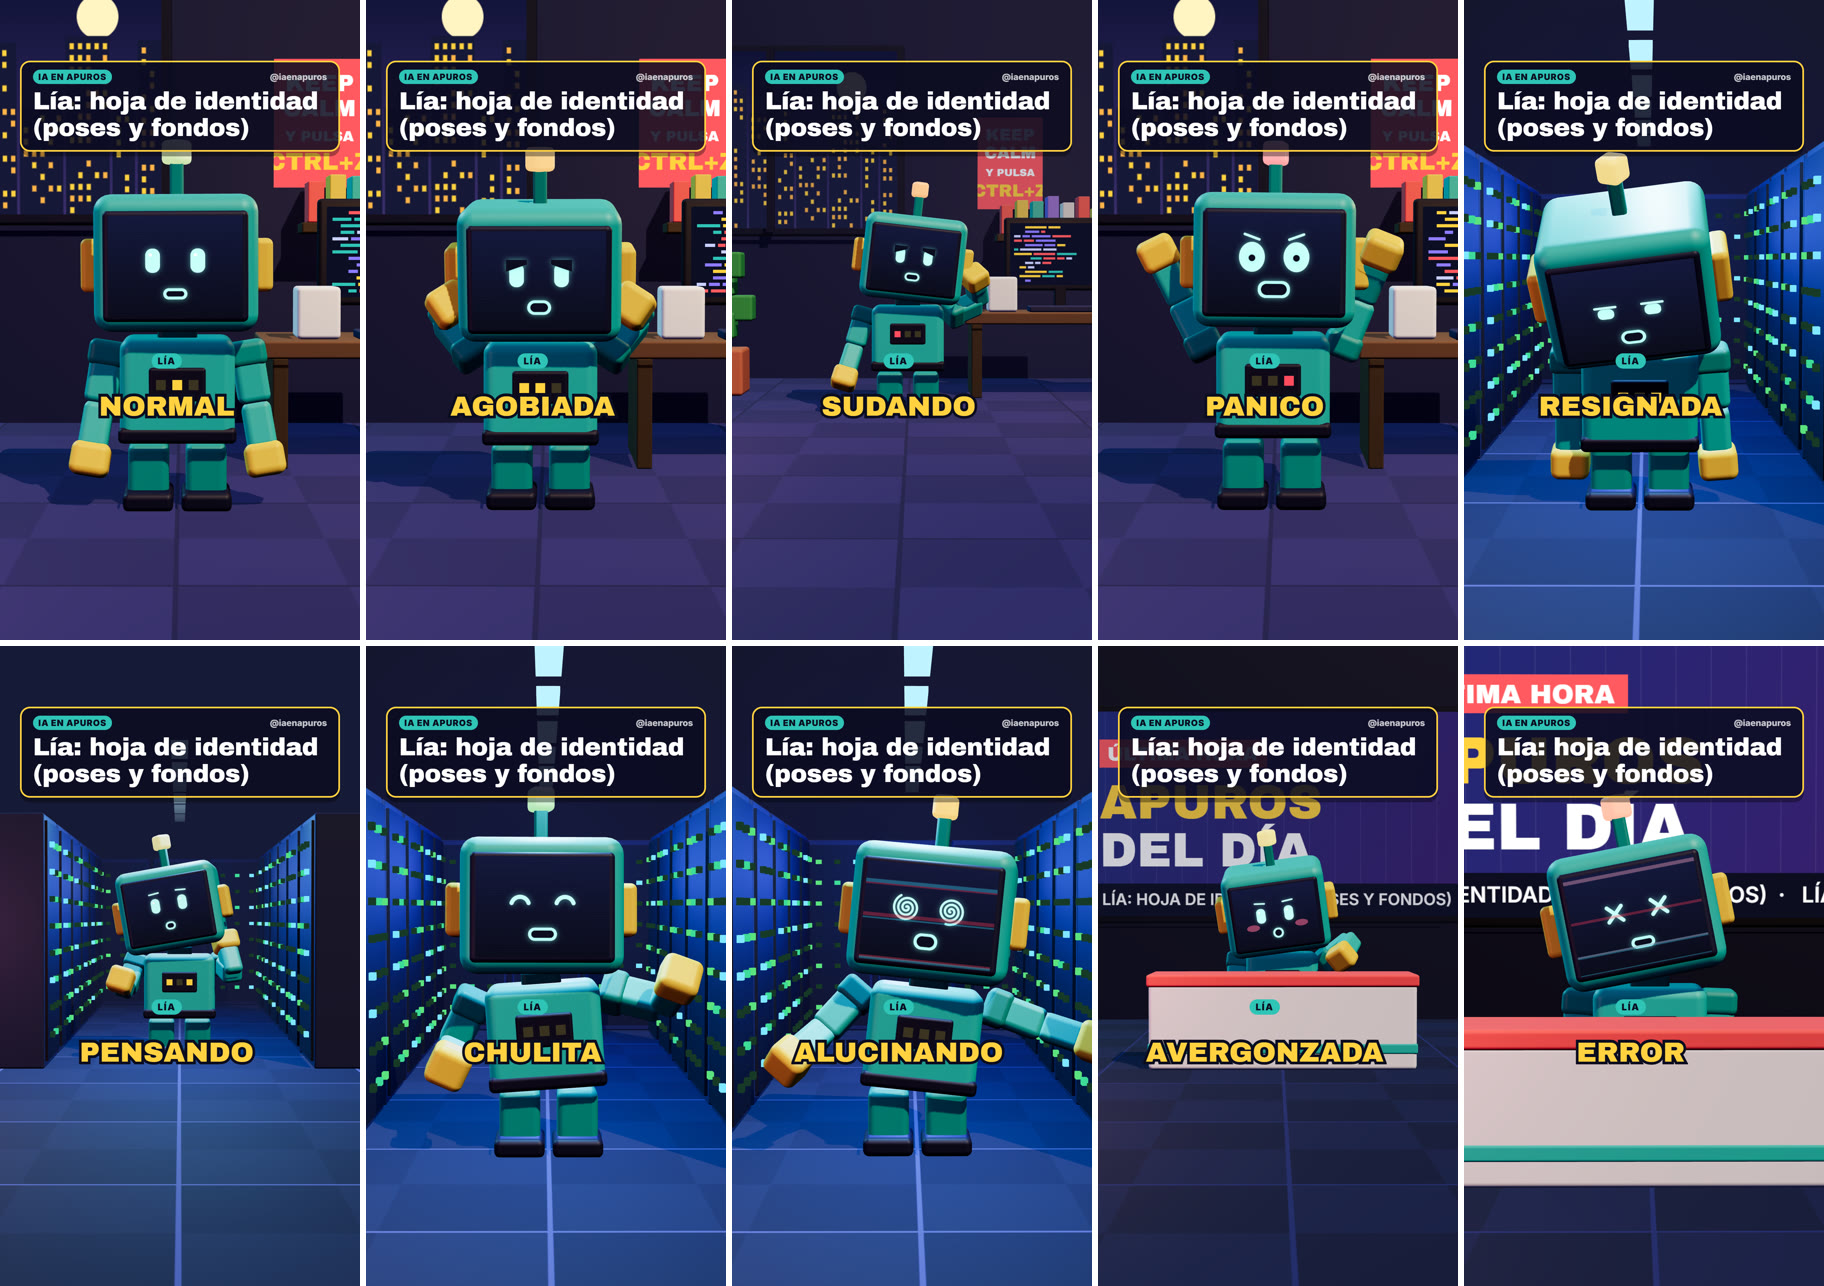
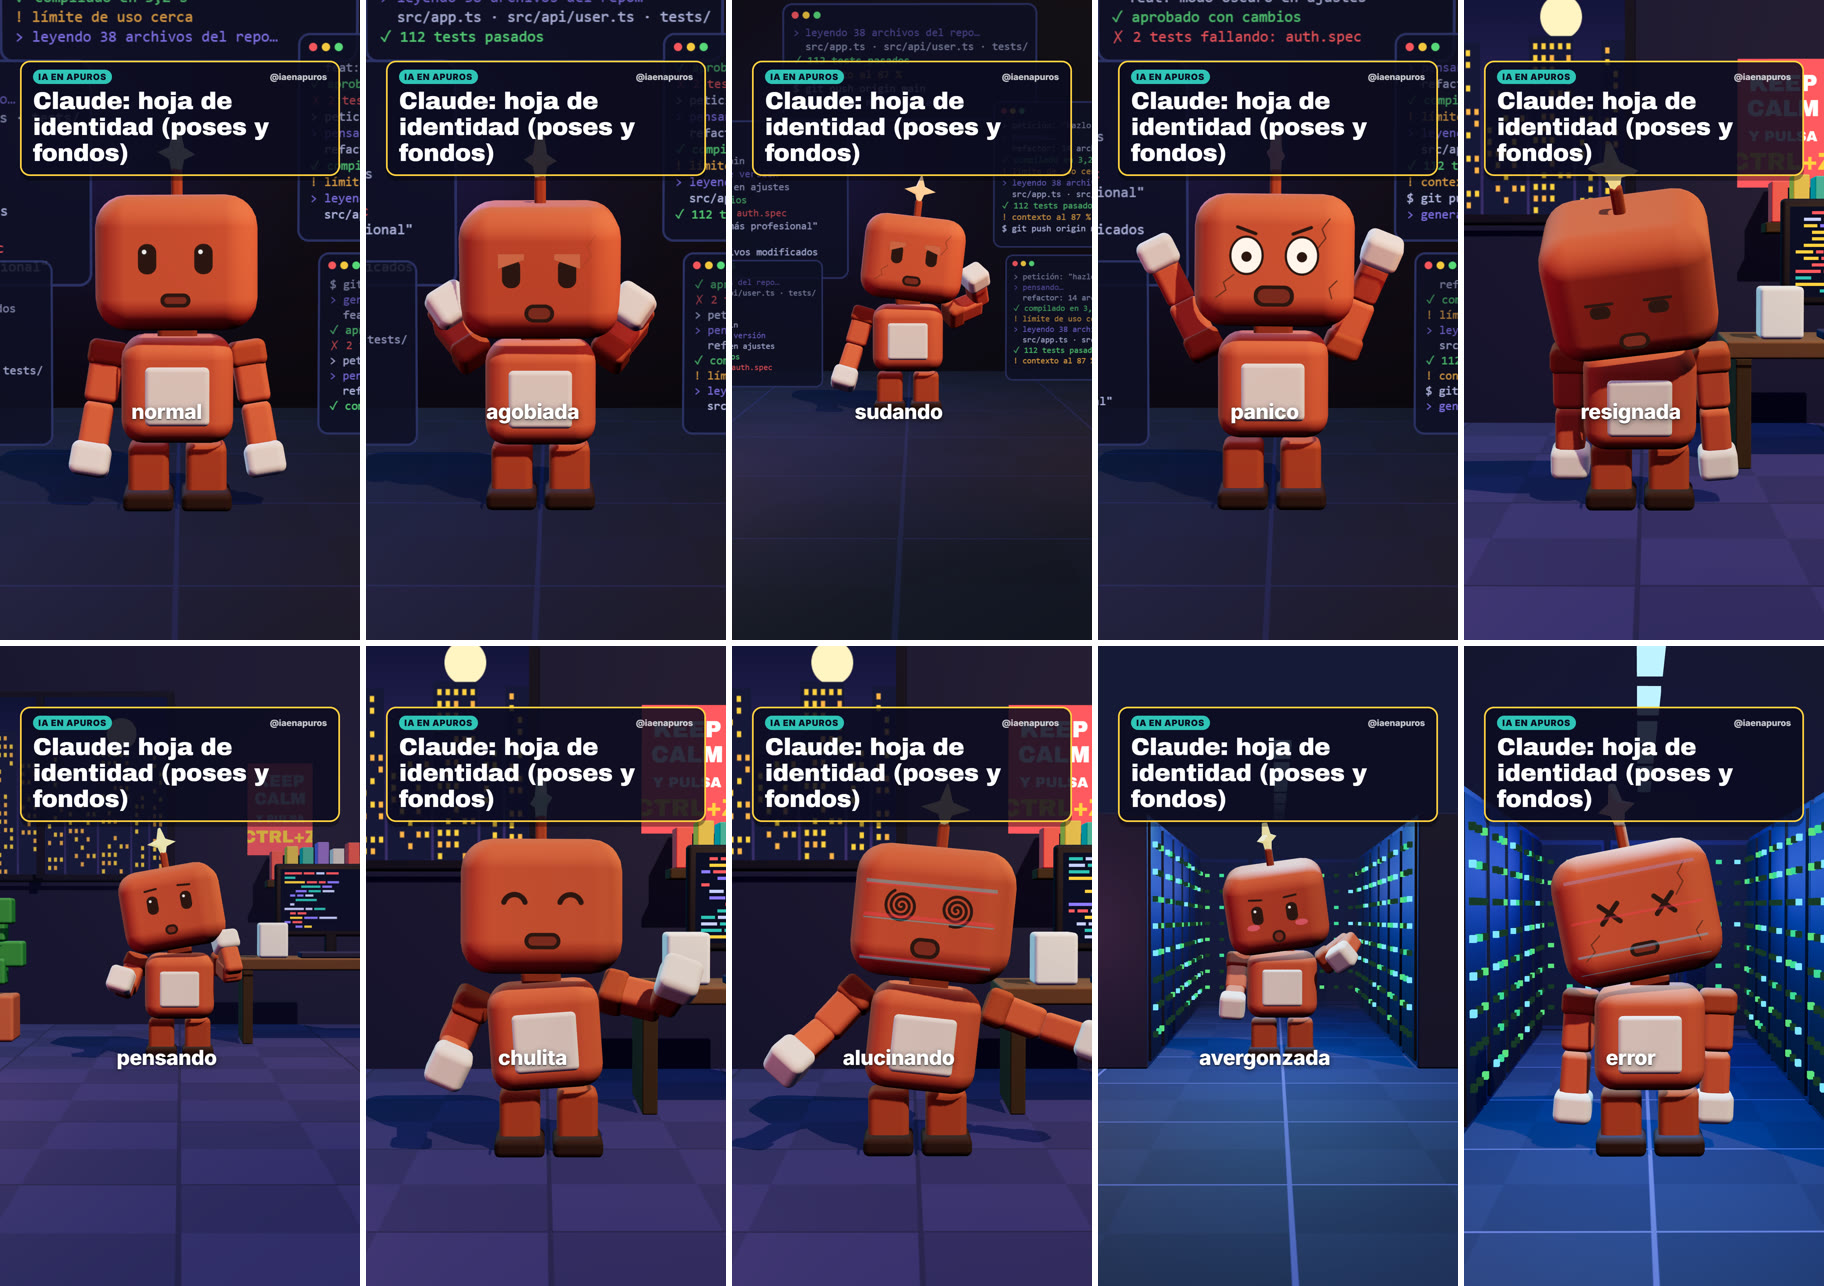
Claude de barro terracota, fondo terminal y foto de perfil nueva
- Personaje: Claude pasa a ser un muñeco de barro terracota con la cara pintada
  (sin pantalla LED), una chispa de 4 puntas que cambia de color con el estrés
  y grietas en el barro cuando el estrés pasa del 60 %.
- Fondo «terminal»: oscuro, con consolas flotantes de logs propios y luz morada.
  Es el fondo por defecto de la serie «día a día».
- Foto de perfil: brand/perfil/claude-barro-perfil.jpg. Hoja de poses regenerada.

diff --git a/engine/src/rig.js b/engine/src/rig.js
@@ -1,23 +1,22 @@
-// Rig 3D de Lía: robot de bloques con pantalla-cara y antena de "contexto".
+// Rig 3D de Claude (parodia): muñeco de barro terracota con cara pintada y chispa de "contexto".
 import * as THREE from 'three';
 import { RoundedBoxGeometry } from 'three/examples/jsm/geometries/RoundedBoxGeometry.js';
 import { createFaceCanvas, drawFace } from './face.js';
 import { noise1, clamp, lerp } from './util.js';
 
 export const PALETTE = {
-  body: '#2EC4B6',
-  bodyDark: '#1F9E92',
-  joint: '#15706A',
-  accent: '#FFD23F',
-  dark: '#1B1E3A',
-  bezel: '#232849',
+  body: '#C96442',
+  bodyDark: '#A9532F',
+  joint: '#8E4527',
+  accent: '#F3E9DC',
+  dark: '#3A2620',
   sweat: '#9EE7FF',
 };
 
 const mats = {};
 function mat(color, extra = {}) {
   const key = color + JSON.stringify(extra);
-  if (!mats[key]) mats[key] = new THREE.MeshStandardMaterial({ color, roughness: 0.5, metalness: 0.04, ...extra });
+  if (!mats[key]) mats[key] = new THREE.MeshStandardMaterial({ color, roughness: 0.82, metalness: 0, ...extra });
   return mats[key];
 }
 
@@ -73,23 +72,13 @@ export function createLia() {
 
   const torso = new THREE.Group();
   hips.add(torso);
-  const chest = block(2.15, 1.95, 1.45, PALETTE.body, 0.22);
+  const chest = block(2.1, 2.0, 1.6, PALETTE.body, 0.42);
   chest.position.y = 0.98;
   torso.add(chest);
-  const belt = block(2.2, 0.3, 1.5, PALETTE.dark, 0.1);
-  belt.position.y = 0.16;
-  torso.add(belt);
-  const panel = block(1.05, 0.62, 0.12, PALETTE.dark, 0.06);
-  panel.position.set(0, 1.12, 0.74);
-  torso.add(panel);
-  const ledMat = new THREE.MeshBasicMaterial({ color: '#FFD23F', toneMapped: false });
-  const leds = [];
-  for (let i = 0; i < 3; i++) {
-    const led = new THREE.Mesh(new THREE.BoxGeometry(0.18, 0.18, 0.06), ledMat.clone());
-    led.position.set(-0.3 + i * 0.3, 1.12, 0.82);
-    torso.add(led);
-    leds.push(led);
-  }
+  // barriga crema, como un pegote de arcilla más clara
+  const belly = block(1.2, 1.1, 0.2, PALETTE.accent, 0.1);
+  belly.position.set(0, 0.9, 0.76);
+  torso.add(belly);
 
   const armL = makeArm(-1);
   armL.position.set(-1.32, 1.68, 0);
@@ -105,12 +94,9 @@ export function createLia() {
   const head = new THREE.Group();
   head.position.y = 2.12;
   torso.add(head);
-  const skull = block(3.0, 2.5, 2.4, PALETTE.body, 0.32);
+  const skull = block(3.0, 2.5, 2.4, PALETTE.body, 0.6);
   skull.position.y = 1.25;
   head.add(skull);
-  const bezel = block(2.62, 2.0, 0.2, PALETTE.bezel, 0.16);
-  bezel.position.set(0, 1.2, 1.15);
-  head.add(bezel);
 
   const faceCanvas = createFaceCanvas();
   const faceTex = new THREE.CanvasTexture(faceCanvas);
@@ -118,22 +104,28 @@ export function createLia() {
   faceTex.anisotropy = 4;
   const face = new THREE.Mesh(
     new THREE.PlaneGeometry(2.4, 1.8),
-    new THREE.MeshBasicMaterial({ map: faceTex, toneMapped: false })
+    new THREE.MeshBasicMaterial({ map: faceTex, toneMapped: false, transparent: true })
   );
-  face.position.set(0, 1.2, 1.262);
+  face.position.set(0, 1.2, 1.205);
   head.add(face);
 
-  for (const side of [-1, 1]) {
-    const ear = block(0.36, 1.0, 1.0, PALETTE.accent, 0.12);
-    ear.position.set(side * 1.62, 1.2, 0);
-    head.add(ear);
-  }
-  const stalk = block(0.26, 0.8, 0.26, PALETTE.bodyDark, 0.06);
-  stalk.position.y = 2.82;
+  const stalk = block(0.22, 0.6, 0.22, PALETTE.bodyDark, 0.08);
+  stalk.position.y = 2.72;
   head.add(stalk);
+  // chispa de 4 puntas (propia, no el logo de Anthropic) = barra de contexto
+  const star = new THREE.Shape();
+  for (let i = 0; i < 8; i++) {
+    const a = (i / 8) * Math.PI * 2 + Math.PI / 2;
+    const r = i % 2 ? 0.13 : 0.42;
+    if (i === 0) star.moveTo(Math.cos(a) * r, Math.sin(a) * r);
+    else star.lineTo(Math.cos(a) * r, Math.sin(a) * r);
+  }
+  star.closePath();
+  const sparkGeo = new THREE.ExtrudeGeometry(star, { depth: 0.12, bevelEnabled: true, bevelThickness: 0.04, bevelSize: 0.04, bevelSegments: 2 });
+  sparkGeo.center();
   const bulbMat = new THREE.MeshStandardMaterial({ color: '#5BE37D', emissive: '#5BE37D', emissiveIntensity: 1.2, roughness: 0.3 });
-  const bulb = new THREE.Mesh(new RoundedBoxGeometry(0.46, 0.46, 0.46, 2, 0.1), bulbMat);
-  bulb.position.y = 3.32;
+  const bulb = new THREE.Mesh(sparkGeo, bulbMat);
+  bulb.position.y = 3.3;
   head.add(bulb);
 
   // gotas de sudor
@@ -197,11 +189,6 @@ export function createLia() {
     bulbMat.emissiveIntensity = s > 0.8 ? 0.6 + 1.4 * (Math.sin(t * 25) > 0 ? 1 : 0.2) : 1.2;
     bulb.rotation.y = t * 0.8;
 
-    leds.forEach((l, i) => {
-      const on = Math.sin(t * (3 + i) + i * 2) > -0.2;
-      l.material.color.set(on ? (s > 0.7 ? '#FF4D5E' : '#FFD23F') : '#3A3420');
-    });
-
     // sudor
     drops.forEach((d, i) => {
       const period = 1.1;
@@ -224,6 +211,7 @@ export function createLia() {
         lookX: p.lookX,
         lookY: p.lookY,
         glitch: x.glitch,
+        crack: clamp((s - 0.6) / 0.4),
       },
       t
     );

diff --git a/engine/src/face.js b/engine/src/face.js
@@ -1,10 +1,12 @@
-// Cara de Lía: pantalla LED dibujada en un canvas que se usa como textura.
+// Cara de Claude: pintada sobre el barro en un canvas transparente que se usa como textura.
 import { clamp } from './util.js';
 
 const W = 512;
 const H = 384;
-const INK = '#C9FFF8';
-const GLOW = 'rgba(120,255,235,0.55)';
+const INK = '#2A1610';
+const HOLE = '#7A2A1C';
+const CREAM = '#FFF6EA';
+const CRACK = '#6E2F1C';
 
 export function createFaceCanvas() {
   const c = document.createElement('canvas');
@@ -35,11 +37,14 @@ function eye(g, cx, cy, s, kind, blink, t, side) {
   switch (kind) {
     case 'wide': {
       g.beginPath();
+      g.fillStyle = CREAM;
       g.ellipse(0, 0, 50 * s, 58 * s * Math.max(0.12, open), 0, 0, Math.PI * 2);
       g.fill();
-      g.fillStyle = '#0B0D1F';
+      g.lineWidth = 7;
+      g.stroke();
+      g.fillStyle = INK;
       g.beginPath();
-      g.arc(0, 4, 13 * s, 0, Math.PI * 2);
+      g.arc(0, 4, 16 * s, 0, Math.PI * 2);
       g.fill();
       break;
     }
@@ -66,7 +71,7 @@ function eye(g, cx, cy, s, kind, blink, t, side) {
       rr(g, -28, -h / 2, 56, h, 26);
       g.fill();
       // párpado inclinado (cejas tristes)
-      g.fillStyle = '#0B0D1F';
+      g.fillStyle = '#C96442';
       g.beginPath();
       const dir = side < 0 ? 1 : -1;
       g.moveTo(-40, -60);
@@ -140,7 +145,7 @@ function mouth(g, kind, open, t) {
     const h = 14 + open * (kind === 'scream' ? 92 : 64);
     rr(g, -w / 2, -h / 2 + 4, w, h, Math.min(30, h / 2));
     g.fill();
-    g.fillStyle = '#0B0D1F';
+    g.fillStyle = HOLE;
     rr(g, -w / 2 + 12, -h / 2 + 4 + 11, w - 24, Math.max(0, h - 22), Math.min(22, h / 2));
     if (h > 30) g.fill();
     g.restore();
@@ -177,7 +182,7 @@ function mouth(g, kind, open, t) {
     case 'grimace': {
       rr(g, -70, -20, 140, 50, 14);
       g.fill();
-      g.fillStyle = '#0B0D1F';
+      g.fillStyle = CREAM;
       for (let i = -2; i <= 2; i++) g.fillRect(i * 26 - 3, -16, 6, 42);
       g.fillRect(-64, 3, 128, 5);
       break;
@@ -186,7 +191,7 @@ function mouth(g, kind, open, t) {
       g.beginPath();
       g.ellipse(0, 10, 46, 52, 0, 0, Math.PI * 2);
       g.fill();
-      g.fillStyle = '#0B0D1F';
+      g.fillStyle = HOLE;
       g.beginPath();
       g.ellipse(0, 12, 32, 38, 0, 0, Math.PI * 2);
       g.fill();
@@ -216,32 +221,44 @@ function mouth(g, kind, open, t) {
 
 /**
  * Dibuja la cara.
- * st: { eyes, mouth, open, blink, brows, blush, lookX, lookY, glitch }
+ * st: { eyes, mouth, open, blink, brows, blush, lookX, lookY, glitch, crack }
  */
 export function drawFace(canvas, st, t) {
   const g = canvas.getContext('2d');
   g.setTransform(1, 0, 0, 1, 0, 0);
   g.clearRect(0, 0, W, H);
-  // fondo de pantalla
-  const bg = g.createLinearGradient(0, 0, 0, H);
-  bg.addColorStop(0, '#11163A');
-  bg.addColorStop(1, '#070918');
-  g.fillStyle = bg;
-  g.fillRect(0, 0, W, H);
-  // líneas de escaneo
-  g.fillStyle = 'rgba(255,255,255,0.035)';
-  for (let y = 0; y < H; y += 6) g.fillRect(0, y, W, 2);
+  // grietas del barro cuando el estrés aprieta
+  if (st.crack > 0.02) {
+    g.save();
+    g.strokeStyle = CRACK;
+    g.lineWidth = 5;
+    g.lineCap = 'round';
+    g.globalAlpha = Math.min(1, st.crack * 1.4);
+    const cracks = [
+      [[470, 20], [440, 60], [455, 95], [420, 140]],
+      [[30, 330], [70, 300], [60, 270], [100, 240]],
+      [[500, 260], [470, 290], [480, 330]],
+    ];
+    cracks.slice(0, 1 + Math.floor(st.crack * 2.9)).forEach((c) => {
+      g.beginPath();
+      c.forEach(([x, y], i) => (i ? g.lineTo(x, y) : g.moveTo(x, y)));
+      g.stroke();
+    });
+    g.restore();
+  }
 
   const lx = clamp(st.lookX, -1, 1) * 22;
   const ly = -clamp(st.lookY, -1, 1) * 16;
 
   g.save();
+  // rasgos un 25 % más grandes: sobre el barro tienen que leerse en el móvil
+  g.translate(W / 2, H / 2);
+  g.scale(1.25, 1.25);
+  g.translate(-W / 2, -H / 2);
   if (st.glitch > 0) {
     const off = Math.round(Math.sin(t * 97) * 18 * st.glitch);
     g.translate(off, 0);
   }
-  g.shadowColor = GLOW;
-  g.shadowBlur = 22;
 
   // cejas (solo si hay emoción marcada y ojos normales)
   if (Math.abs(st.brows) > 0.15 && (st.eyes === 'normal' || st.eyes === 'wide')) {

diff --git a/engine/src/backgrounds.js b/engine/src/backgrounds.js
@@ -1,4 +1,4 @@
-// Fondos 3D de bloques: oficina, servidor (CPD) y plato (informativo).
+// Fondos 3D de bloques: terminal, oficina, servidor (CPD) y plato (informativo).
 import * as THREE from 'three';
 import { RoundedBoxGeometry } from 'three/examples/jsm/geometries/RoundedBoxGeometry.js';
 import { mulberry32, hash } from './util.js';
@@ -169,6 +169,93 @@ function oficina() {
   };
 }
 
+// ---------- TERMINAL (fondo oscuro con consolas flotantes) ----------
+function terminal() {
+  const g = new THREE.Group();
+  g.add(floor(floorTex('#0F1124', '#0D0F20', '#1B1F3D')));
+  g.add(box(60, 30, 0.6, '#080A16', 0, 15, -13, 0));
+
+  const LOG = [
+    ['#8E7CFF', '> leyendo 38 archivos del repo…'],
+    ['#C9D1FF', '  src/app.ts · src/api/user.ts · tests/'],
+    ['#5BE37D', '✓ 112 tests pasados'],
+    ['#FFB547', '! contexto al 87 %'],
+    ['#C9D1FF', '$ git push origin main'],
+    ['#8E7CFF', '> generando notas de versión'],
+    ['#C9D1FF', '  feat: modo oscuro en ajustes'],
+    ['#5BE37D', '✓ aprobado con cambios'],
+    ['#FF5A5F', '✗ 2 tests fallando: auth.spec'],
+    ['#C9D1FF', '> petición: "hazlo más profesional"'],
+    ['#8E7CFF', '> pensando…'],
+    ['#C9D1FF', '  refactor: 14 archivos modificados'],
+    ['#5BE37D', '✓ compilado en 3,2 s'],
+    ['#FFB547', '! límite de uso cerca'],
+  ];
+  // [ancho, alto, x, y, z, desfase]
+  const layout = [
+    [9.0, 6.0, -6.8, 7.0, -7.5, 0],
+    [8.0, 5.6, 7.2, 8.0, -8.0, 5],
+    [7.0, 4.6, -6.6, 2.4, -5.5, 9],
+    [7.0, 4.6, 7.0, 2.6, -6.0, 3],
+    [10.0, 4.6, 0.0, 12.5, -9.0, 7],
+  ];
+  const panels = layout.map(([w, h, x, y, z, off]) => {
+    const cv = canvasTex(512, Math.round((512 * h) / w), () => {});
+    const m = new THREE.Mesh(
+      new THREE.PlaneGeometry(w, h),
+      new THREE.MeshBasicMaterial({ map: cv.tex, toneMapped: false, transparent: true, opacity: 0.95, fog: true })
+    );
+    m.position.set(x, y, z);
+    g.add(m);
+    return { cv, off };
+  });
+
+  const glow = new THREE.PointLight('#8E7CFF', 40, 30, 1.3);
+  glow.position.set(-4, 9, -6);
+  g.add(glow);
+  const warm = new THREE.PointLight('#FF9A6B', 16, 16, 1.5);
+  warm.position.set(5, 6, 3);
+  g.add(warm);
+
+  return {
+    group: g,
+    fog: ['#0A0C1A', 30, 70],
+    sky: '#0A0C1A',
+    update(t) {
+      panels.forEach(({ cv, off }, k) => {
+        const c = cv.canvas.getContext('2d');
+        const W = cv.canvas.width;
+        const H = cv.canvas.height;
+        c.clearRect(0, 0, W, H);
+        c.fillStyle = 'rgba(13,16,36,0.92)';
+        c.strokeStyle = '#2B3366';
+        c.lineWidth = 4;
+        c.beginPath();
+        c.roundRect(2, 2, W - 4, H - 4, 18);
+        c.fill();
+        c.stroke();
+        ['#FF5A5F', '#FFD23F', '#5BE37D'].forEach((col, i) => {
+          c.fillStyle = col;
+          c.beginPath();
+          c.arc(26 + i * 22, 24, 7, 0, Math.PI * 2);
+          c.fill();
+        });
+        c.font = `22px "Consolas", monospace`;
+        const rows = Math.floor((H - 60) / 28);
+        const scroll = Math.floor(t * (0.8 + k * 0.25) + off);
+        for (let i = 0; i < rows; i++) {
+          const [col, txt] = LOG[(i + scroll) % LOG.length];
+          c.fillStyle = col;
+          c.globalAlpha = 0.55 + 0.45 * (i / rows);
+          c.fillText(txt, 22, 66 + i * 28);
+        }
+        c.globalAlpha = 1;
+        cv.tex.needsUpdate = true;
+      });
+    },
+  };
+}
+
 // ---------- SERVIDOR ----------
 function servidor() {
   const g = new THREE.Group();
@@ -321,6 +408,6 @@ function plato(ep) {
 }
 
 export function createBackgrounds(ep) {
-  return { oficina: oficina(), servidor: servidor(), plato: plato(ep) };
+  return { terminal: terminal(), oficina: oficina(), servidor: servidor(), plato: plato(ep) };
 }
-export const BACKGROUND_NAMES = ['oficina', 'servidor', 'plato'];
+export const BACKGROUND_NAMES = ['terminal', 'oficina', 'servidor', 'plato'];

diff --git a/engine/src/main.js b/engine/src/main.js
@@ -86,7 +86,7 @@ async function build() {
   // ---- segmentos de pose / cámara / fondo ----
   const poseSegs = [{ t: -10, pose: EP.lines[0].pose || 'normal' }];
   const camSegs = [{ t: -10, cam: EP.lines[0].cam || 'medio' }];
-  const bgSegs = [{ t: -10, bg: EP.lines[0].bg || EP.background || 'oficina' }];
+  const bgSegs = [{ t: -10, bg: EP.lines[0].bg || EP.background || 'terminal' }];
   EP.lines.forEach((ln) => {
     if (ln.pose) poseSegs.push({ t: ln.start - 0.08, pose: ln.pose });
     if (ln.react) poseSegs.push({ t: ln.start + (ln.react.at || 0.8), pose: ln.react.pose });
@@ -160,7 +160,7 @@ async function build() {
     // fondo
     const bgName = bgSegs[segAt(bgSegs, t)].bg;
     for (const [name, b] of Object.entries(bgs)) b.group.visible = name === bgName;
-    const bg = bgs[bgName] || bgs.oficina;
+    const bg = bgs[bgName] || bgs.terminal;
     scene.background = new THREE.Color(bg.sky);
     scene.fog = new THREE.Fog(bg.fog[0], bg.fog[1], bg.fog[2]);
     const alarmAmt = fxAmount(t, 'alarma');
